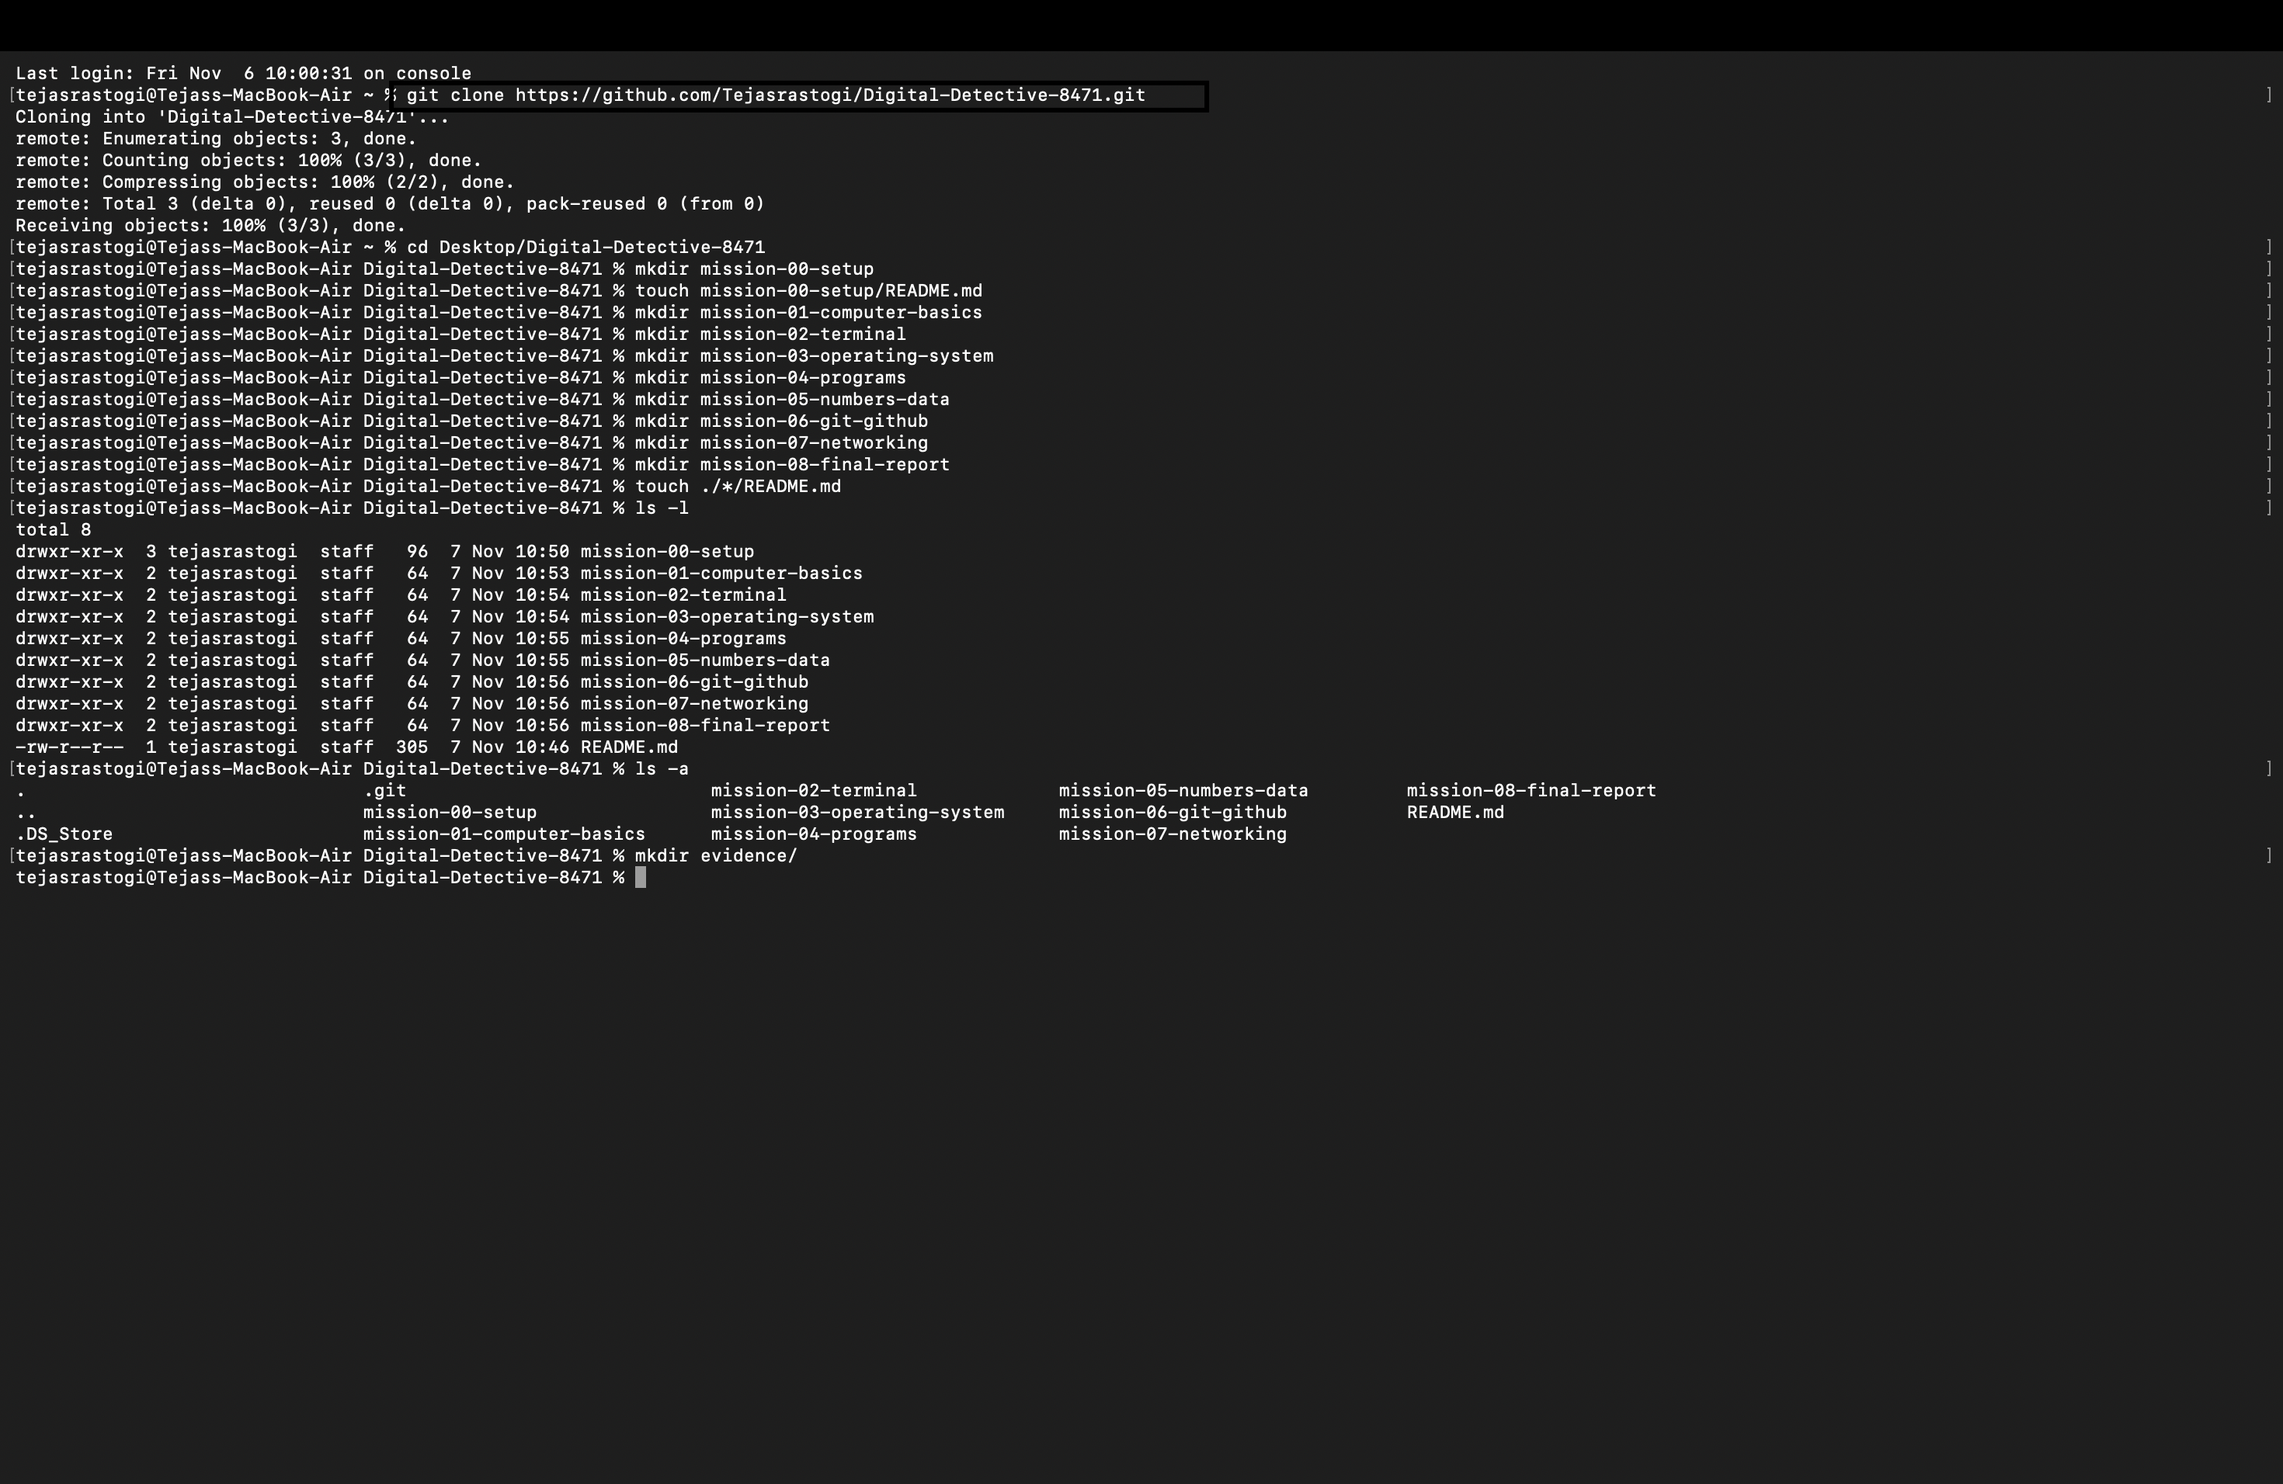
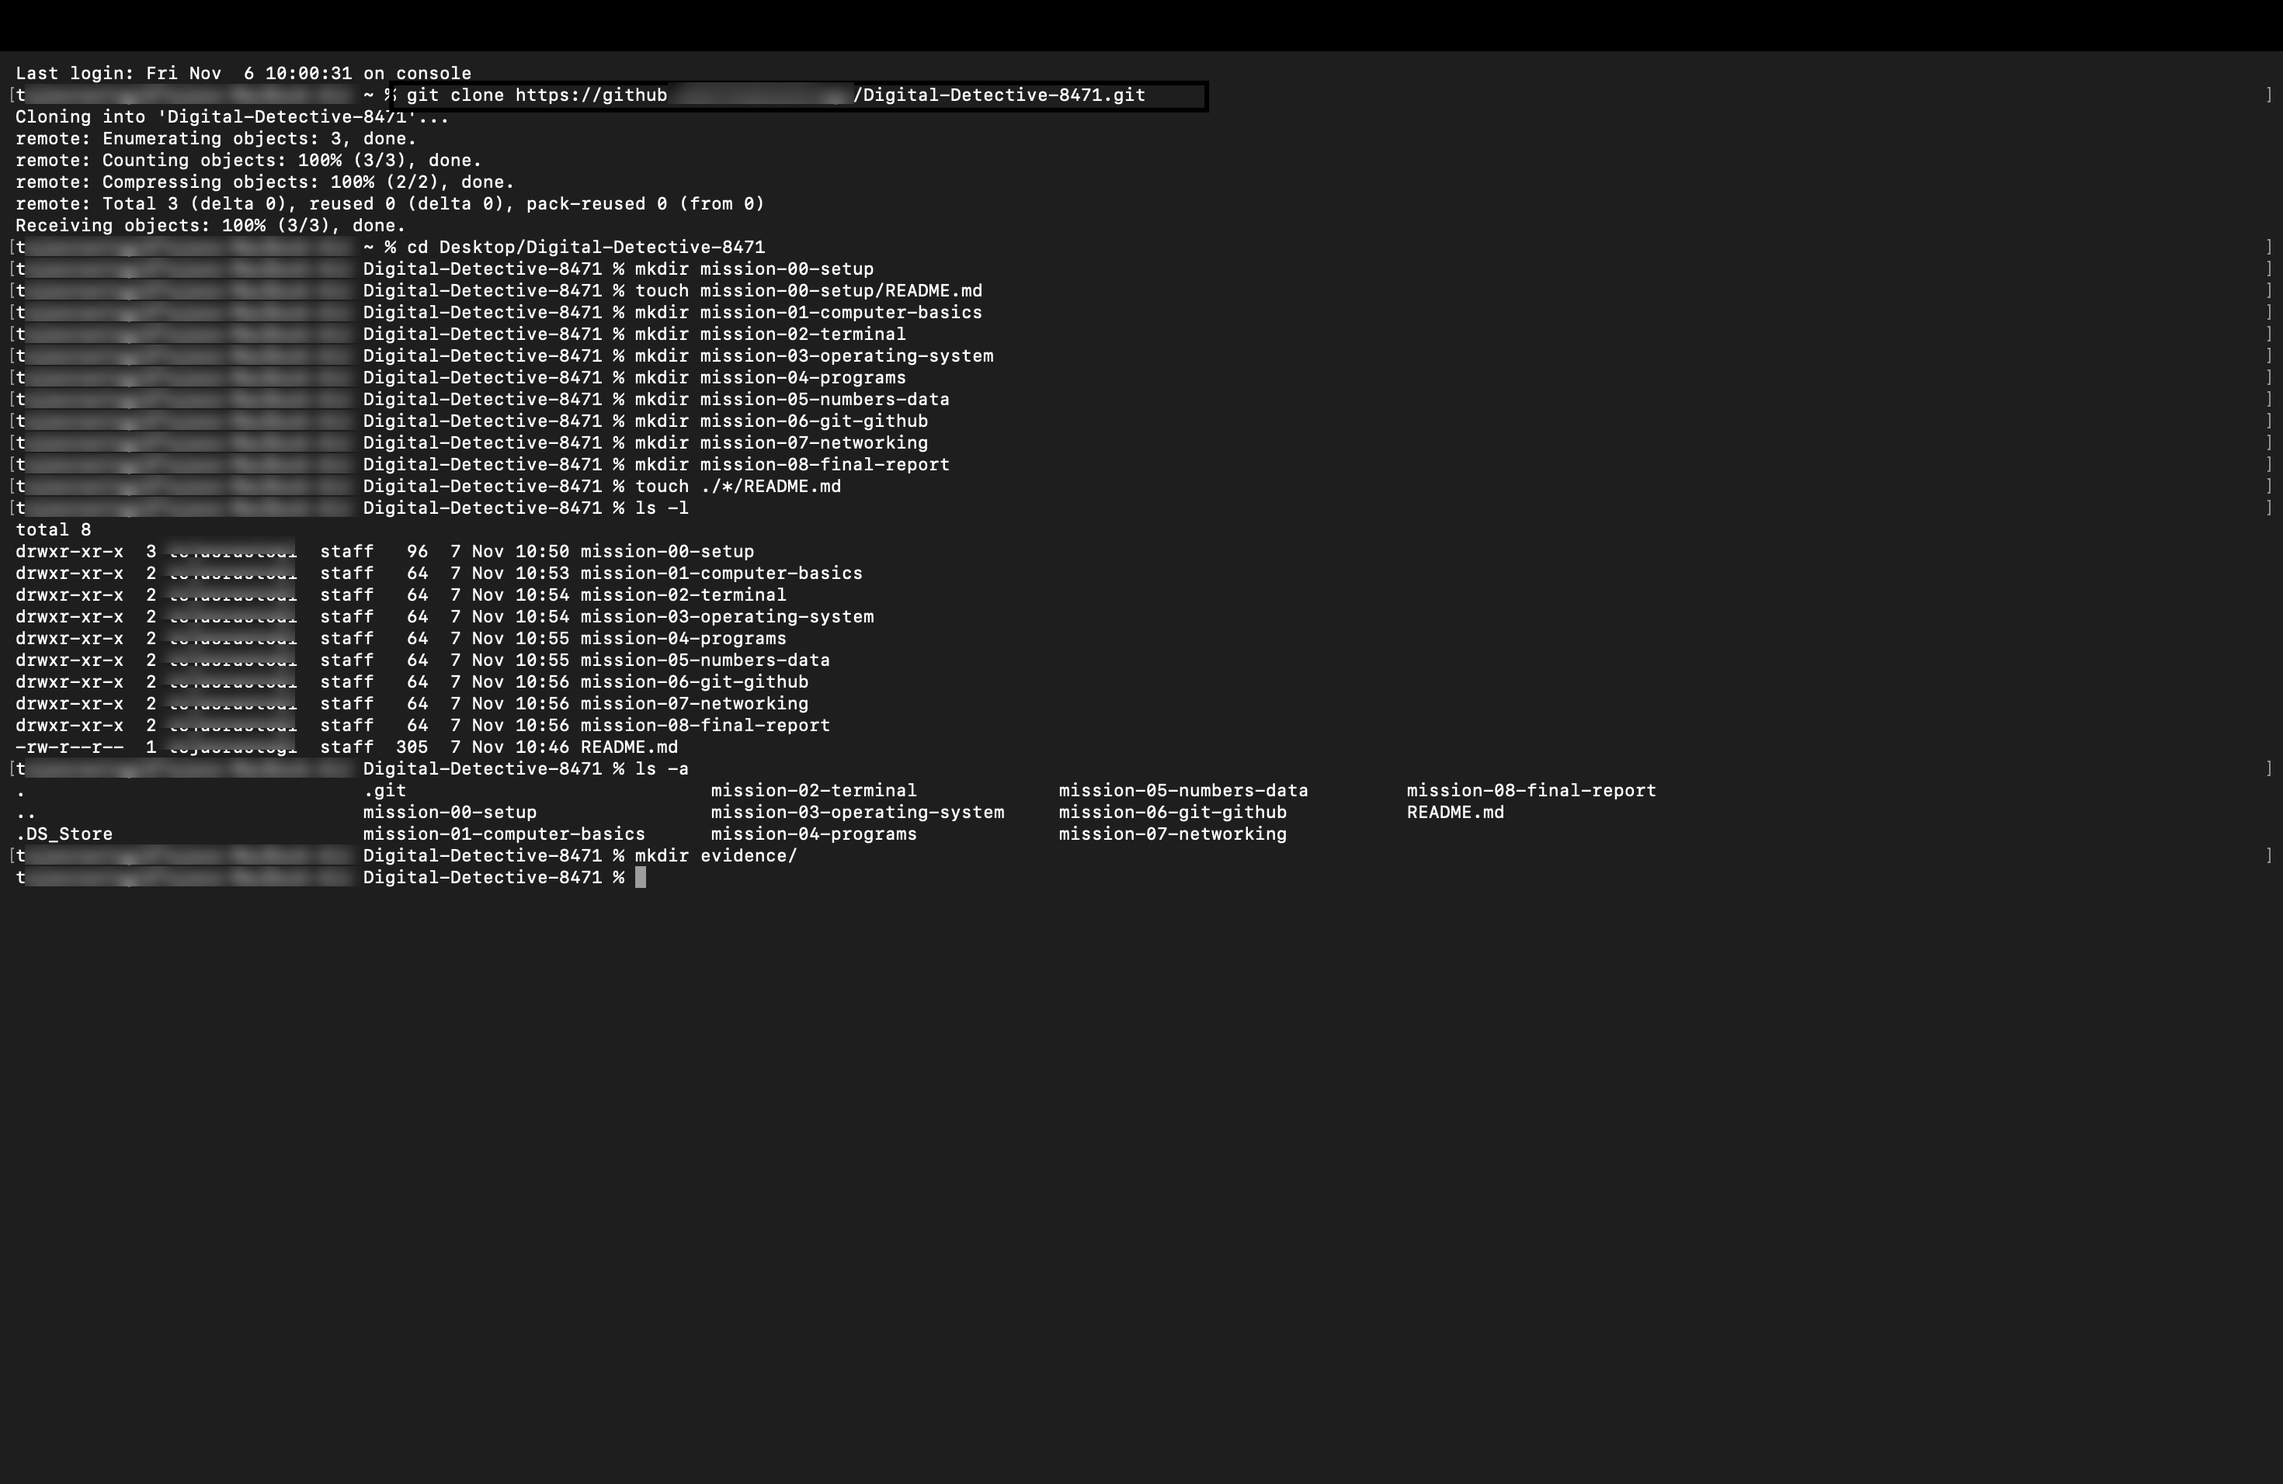
Complete Mission 1 with privacy-safe Activity Monitor and Disk Utility evidence

diff --git a/mission-01-computer-basics/README.md b/mission-01-computer-basics/README.md
@@ -1,0 +1,127 @@
+# Mission 1: Know Your Computer
+
+## 1. Overview & Mission Objective
+- **Assignment**: The Digital Detective — Diwali Independent Learning Assignment
+- **Mission**: Mission 1 — Know your computer
+- **Objective**: Explain how a computer system takes input, processes data, produces output, and stores information (the **IPOS** cycle). Classify fundamental hardware, operating system software, application software, and utility software. Identify and analyze dedicated embedded computer systems operating in everyday environments.
+- **Privacy Standard**: In strict accordance with assignment guidelines, all system descriptions, diagnostics, and visual evidence omit personal usernames, machine serial numbers, local network IP addresses, and hardware MAC addresses. All usernames in captured process monitors have been redacted.
+
+---
+
+## 2. Task 1.1 — Trace One Activity Using the IPOS Cycle
+
+### Chosen Activity: Typing, Formatting, and Saving a Source Code File in an Editor
+The IPOS (Input, Processing, Output, Storage) model represents the fundamental pipeline through which all modern computers transform external physical interaction into persistent digital data.
+
+### IPOS Activity Table
+
+| Stage | What Happens in the Activity? | Hardware & Component Involved |
+| :--- | :--- | :--- |
+| **1. Input** | The user presses a key (e.g., `'a'`). The key switch closes an electrical circuit on the keyboard matrix. The keyboard controller detects the switch closure, generates an electrical scan code, and transmits it via USB/Bluetooth bus to the host controller. | Keyboard switch matrix, keyboard microcontroller, USB/Bluetooth interface bus. |
+| **2. Processing** | The CPU receives an interrupt request from the keyboard bus. The OS kernel's keyboard driver decodes the scan code into an ASCII/Unicode character event and directs it to the active editor process. The CPU executes instructions to insert the character into the active document buffer loaded in volatile memory (RAM), while a syntax highlighting thread parses tokens. | Central Processing Unit (CPU: ALU, Control Unit, L1/L2/L3 caches), RAM (Random Access Memory), Memory Controller. |
+| **3. Output** | The application requests a visual update. The Graphics Processing Unit (GPU) computes the glyph rasterization, anti-aliasing, and color styling, rendering the updated frame into the video framebuffer. The display controller streams the image buffer across an internal display interface (eDP/DisplayPort) to render the glyph on screen. | GPU (Graphics Processing Unit), Video Framebuffer, Retina/LCD/OLED Display Panel. |
+| **4. Storage** | When the user triggers the Save command (`Cmd+S` or `Ctrl+S`), the application issues an asynchronous file write system call (`write()` and `fsync()`). The operating system's filesystem driver assigns disk blocks, updates filesystem metadata (inodes/directories), and the storage controller writes the data persistently into NAND flash cells. | NVMe Solid-State Drive (SSD) controller, NAND flash storage chips, non-volatile storage bus. |
+
+### Visual Architecture: How a Keyboard Works (Input to Screen & Storage)
+The diagram below illustrates the complete end-to-end IPOS execution flow from the mechanical key switch, microcontroller scan code detection, OS interrupt handling, CPU register processing, GPU rendering to screen, and persistent SSD storage serialization:
+
+![How a Keyboard Works: From Keypress to Screen and Storage](../evidence/326ad8f8-8baf-44e9-9b33-ad4d86fe3ab7.webp)
+
+*Figure 1.1: Complete structural pipeline showing how an alphanumeric keypress moves from physical input through detection, bus transmission, CPU processing, screen output, and persistent storage.*
+
+### Extended Architectural Explanation: End-to-End Data Flow
+1. **Physical to Digital (Input Stage)**: Mechanical keypresses are converted to digital signals by the keyboard microcontroller. These signals trigger hardware interrupts (`IRQ`), pausing low-priority CPU tasks to ensure near-zero latency typing response.
+2. **Volatile In-Memory Processing (Processing Stage)**: While the document is being edited, all modifications reside exclusively in **volatile RAM**. If power were lost at this point, unsaved characters in RAM would vanish. The CPU's arithmetic logic unit (ALU) and registers manage text buffers, cursor pointers, and line numbering.
+3. **Visual Feedback Loop (Output Stage)**: Visual feedback occurs concurrently at 60 Hz or 120 Hz. The display pipeline ensures that the user receives immediate visual confirmation of each input before committing to storage.
+4. **Persistent Serialization (Storage Stage)**: Saving bridges the volatile memory domain to non-volatile flash memory. The OS filesystem (such as APFS or ext4) flushes caches to disk blocks, ensuring data integrity across power cycles.
+
+---
+
+## 3. Task 1.2 — Identify and Classify Hardware and Software
+
+Computer systems consist of a symbiotic relationship between physical components (**hardware**) and intangible instruction sets (**software**). Software is categorized based on its proximity to the hardware and its intended user role:
+- **Operating System Software**: Manages hardware resources, processor scheduling, virtual memory, device drivers, and security isolation.
+- **Application Software**: Directly serves end users by providing specific functional tools (browsing, authoring, programming).
+- **Utility Software**: Diagnostic, maintenance, and administrative tools designed to safeguard, tune, and manage system resources.
+
+### Hardware & Software Classification Table
+
+| Item / Software Name | Hardware or Software? | Software Type (if applicable) | Purpose & Architectural Function |
+| :--- | :--- | :--- | :--- |
+| **Keyboard** | Hardware | *Not applicable* | Physical human input device that converts key depressions into digital scan codes. |
+| **Central Processing Unit (CPU)** | Hardware | *Not applicable* | The core computation engine responsible for fetching, decoding, and executing machine instructions. |
+| **Random Access Memory (RAM)** | Hardware | *Not applicable* | High-speed, volatile primary storage providing rapid read/write access for the OS kernel and running programs. |
+| **NVMe Solid-State Drive (SSD)** | Hardware | *Not applicable* | Non-volatile secondary storage medium utilizing high-speed NAND flash chips for persistent data retention. |
+| **Display Panel / Screen** | Hardware | *Not applicable* | Visual output hardware device that renders rasterized pixels generated by the graphics processing subsystem. |
+| **macOS Darwin / Linux Kernel** | Software | Operating System Software | Core OS platform that manages CPU multitasking, memory allocation, hardware abstraction, and file systems. |
+| **Visual Studio Code** | Software | Application Software | Extensible source code editor providing developers with text editing, debugging, syntax highlighting, and terminal tools. |
+| **Web Browser (Chrome / Firefox)** | Software | Application Software | Interactive client application used to retrieve, parse, render HTML/CSS/JavaScript, and navigate web protocols. |
+| **macOS Disk Utility** | Software | Utility Software | System management utility used to partition disks, repair file systems (First Aid), format storage drives, and verify integrity. |
+| **Activity Monitor / Task Manager** | Software | Utility Software | System monitoring utility that tracks active processes, CPU utilization, thread counts, memory pressure, and energy impact. |
+
+---
+
+## 4. Task 1.3 — Computer Systems in Everyday Life
+
+A **computer system** is not restricted to general-purpose desktop computers or smartphones. Embedded computing systems integrate microprocessors, specialized sensors, and actuators to perform dedicated automated functions throughout modern infrastructure.
+
+### Everyday Embedded Computer Systems
+
+| System | Main Purpose | One Primary Input | One Primary Output |
+| :--- | :--- | :--- | :--- |
+| **Automated Teller Machine (ATM)** | Delivers automated, secure banking operations (cash withdrawals, deposits, account balance queries) without human teller intervention. | Encrypted PIN pad / Chip card reader (detects account data and user security PIN). | High-precision motorized cash dispensing mechanism (or printed transaction receipt). |
+| **Smart Traffic Light Controller** | Optimizes road intersection safety and vehicular flow by dynamically scheduling traffic signal intervals based on real-time traffic volume. | Inductive loop road sensors embedded in asphalt (detects electromagnetic disturbance caused by vehicles). | Multi-aspect high-intensity LED signal lanterns (Red, Amber, Green) and pedestrian walk displays. |
+| **Metro Ticket Vending Machine (TVM)** | Automates passenger ticketing, token issuance, and contactless transit smart card recharges in rapid transit stations. | Capacitive touch-screen interface (receives user station destination selection). | RFID contactless smart token dispensing slot (ejects encoded travel token). |
+
+### Technical Analysis of Everyday Systems
+1. **ATM Architecture**: Combines a hardened real-time computer running specialized embedded OS software with high-security cryptographic peripherals (Hardware Security Modules, motorized shutters, deposit validators) connected via isolated internal buses.
+2. **Traffic Signal Controller**: Employs an embedded microcomputer or programmable logic controller (PLC) running deterministic logic loops. When inductive road loops signal waiting queues, the CPU modifies phase transitions to relieve traffic congestion.
+3. **Transit Ticket Machine**: Uses a specialized embedded PC running industrial touch drivers, cash/coin acceptors, and RFID reader/writers. Input from the touchscreen triggers pricing calculations that drive electromechanical token dispenser solenoids.
+
+---
+
+## 5. Tools & Commands Used
+To inspect local system architecture and hardware details safely:
+- `uname -a`: Verified OS kernel architecture.
+- `python3 --version`: Verified high-level language runtime environment.
+- `git --version`: Verified local version control utility.
+- **Activity Monitor**: Inspected active thread dispatching, PID assignment, and volatile RAM pressure.
+- **Disk Utility**: Verified APFS container partitioning, storage device hierarchy, and flash storage layout.
+
+---
+
+## 6. Reflections & Key Learnings
+- **The IPOS Loop**: Understood that every computing task, no matter how complex (e.g., streaming video or machine learning), is an orchestration of the IPOS pipeline.
+- **Volatile vs. Persistent Storage**: Learned why RAM and SSD storage serve fundamentally different roles: RAM provides fast nanosecond-level access for live execution, while SSD provides persistent storage across power resets.
+- **Software Stratification**: Clarified the boundary between system software (which directly mediates hardware access) and application software (which relies on system APIs to accomplish user goals).
+
+---
+
+## 7. Difficulties Faced & Resolutions
+- **Distinguishing Utility Software from System Software**: It is easy to confuse utilities (like Disk Utility or Activity Monitor) with the operating system itself. Resolved by recognizing that the operating system kernel is the core supervisor, whereas utility software consists of administrative programs running in user space to maintain and monitor the system.
+- **Privacy-Safe Evidence Collection**: Standard system utility views display machine usernames and snapshot identifiers. Resolved by applying non-destructive Gaussian blurring to sensitive user columns and snapshot UUID fields before staging to version control.
+
+---
+
+## 8. Visual Verification Evidence Artifacts
+
+The following visual artifacts corroborate the findings and classifications established in Mission 1:
+
+### Evidence 1: IPOS End-to-End Keypress Architecture
+Detailed pipeline illustrating electrical contact input, microcontroller scancode generation, operating system interrupt conversion, CPU scheduling, GPU display output, and SSD storage.
+
+![How a Keyboard Works](../evidence/326ad8f8-8baf-44e9-9b33-ad4d86fe3ab7.webp)
+
+---
+
+### Evidence 2: Utility Software & Volatile Memory Management (Activity Monitor)
+Demonstrating real-time CPU task scheduling and volatile RAM distribution (16.00 GB physical RAM, 11.73 GB active memory load, process hierarchy, and thread allocation) captured via Activity Monitor. *Note: The user column has been blurred to protect personal system identity.*
+
+![Activity Monitor Memory and Processing](../evidence/Screenshot%202026-11-08%20at%203.10.14%E2%80%AFPM.png)
+
+---
+
+### Evidence 3: Utility Software & Persistent Storage Management (Disk Utility)
+Demonstrating secondary non-volatile storage architecture, showing the internal SSD Apple Fabric bus, APFS container allocation (994.61 GB capacity), and persistent read-only system snapshots. *Note: Snapshot UUID has been blurred for privacy compliance.*
+
+![Disk Utility Storage Architecture](../evidence/Screenshot%202026-11-08%20at%203.11.41%E2%80%AFPM.png)

diff --git a/README.md b/README.md
@@ -12,7 +12,7 @@ Each mission is completed, documented, and committed independently to track prog
 | Mission | Title | Directory / Documentation | Status |
 | :--- | :--- | :--- | :--- |
 | **Mission 00** | GitHub Workspace Setup | [mission-00-setup/README.md](./mission-00-setup/README.md) | Completed |
-| **Mission 01** | Computer Basics & IPOS | [mission-01-computer-basics/README.md](./mission-01-computer-basics/README.md) | Pending |
+| **Mission 01** | Computer Basics & IPOS | [mission-01-computer-basics/README.md](./mission-01-computer-basics/README.md) | Completed |
 | **Mission 02** | Terminal Operations & Commands | [mission-02-terminal/README.md](./mission-02-terminal/README.md) | Pending |
 | **Mission 03** | Operating System Mechanics | [mission-03-operating-system/README.md](./mission-03-operating-system/README.md) | Pending |
 | **Mission 04** | Programs, Compilers & Interpreters | [mission-04-programs/README.md](./mission-04-programs/README.md) | Pending |
